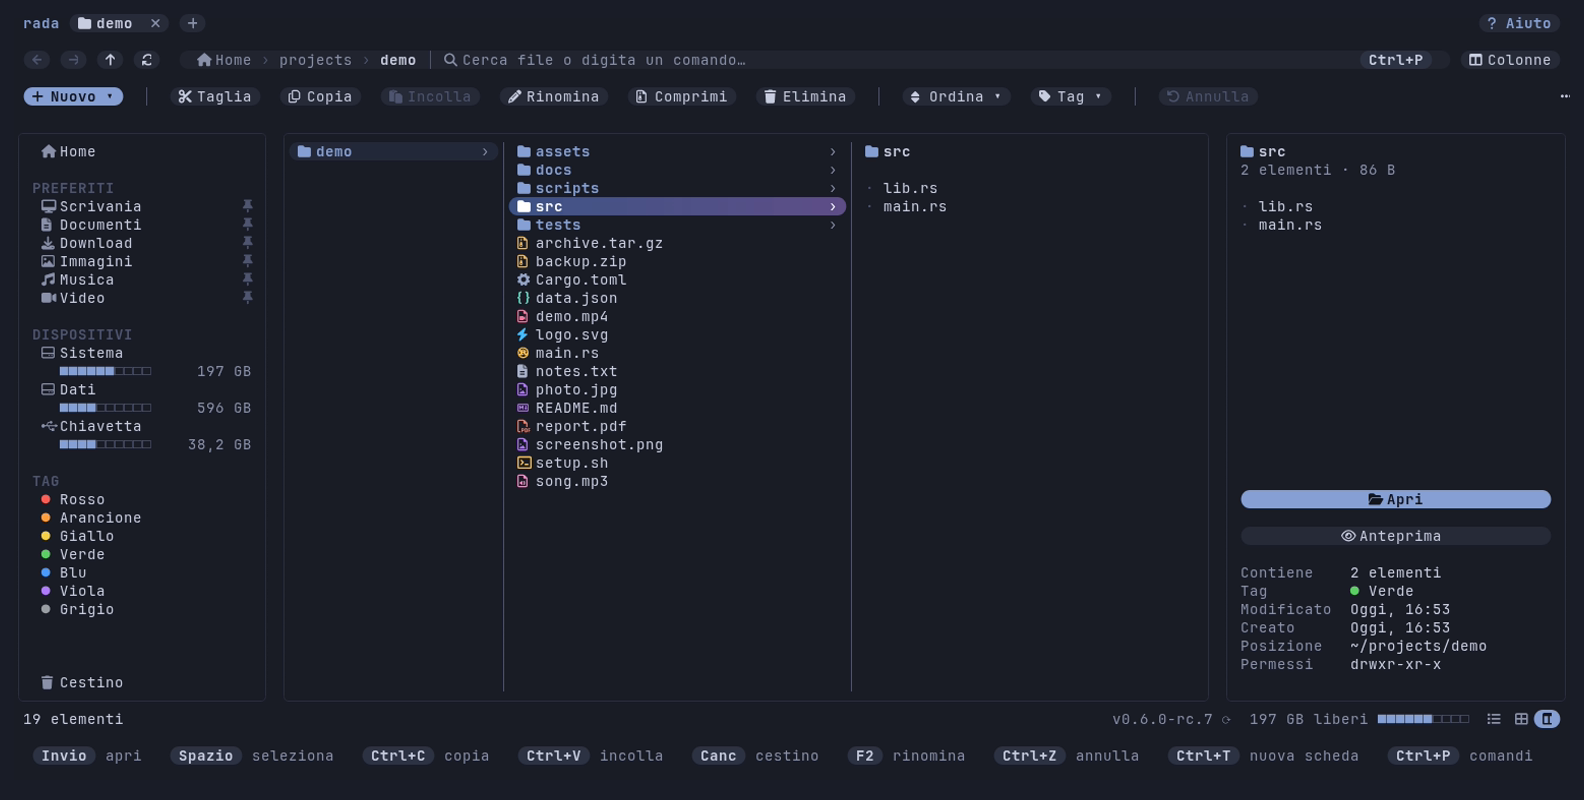
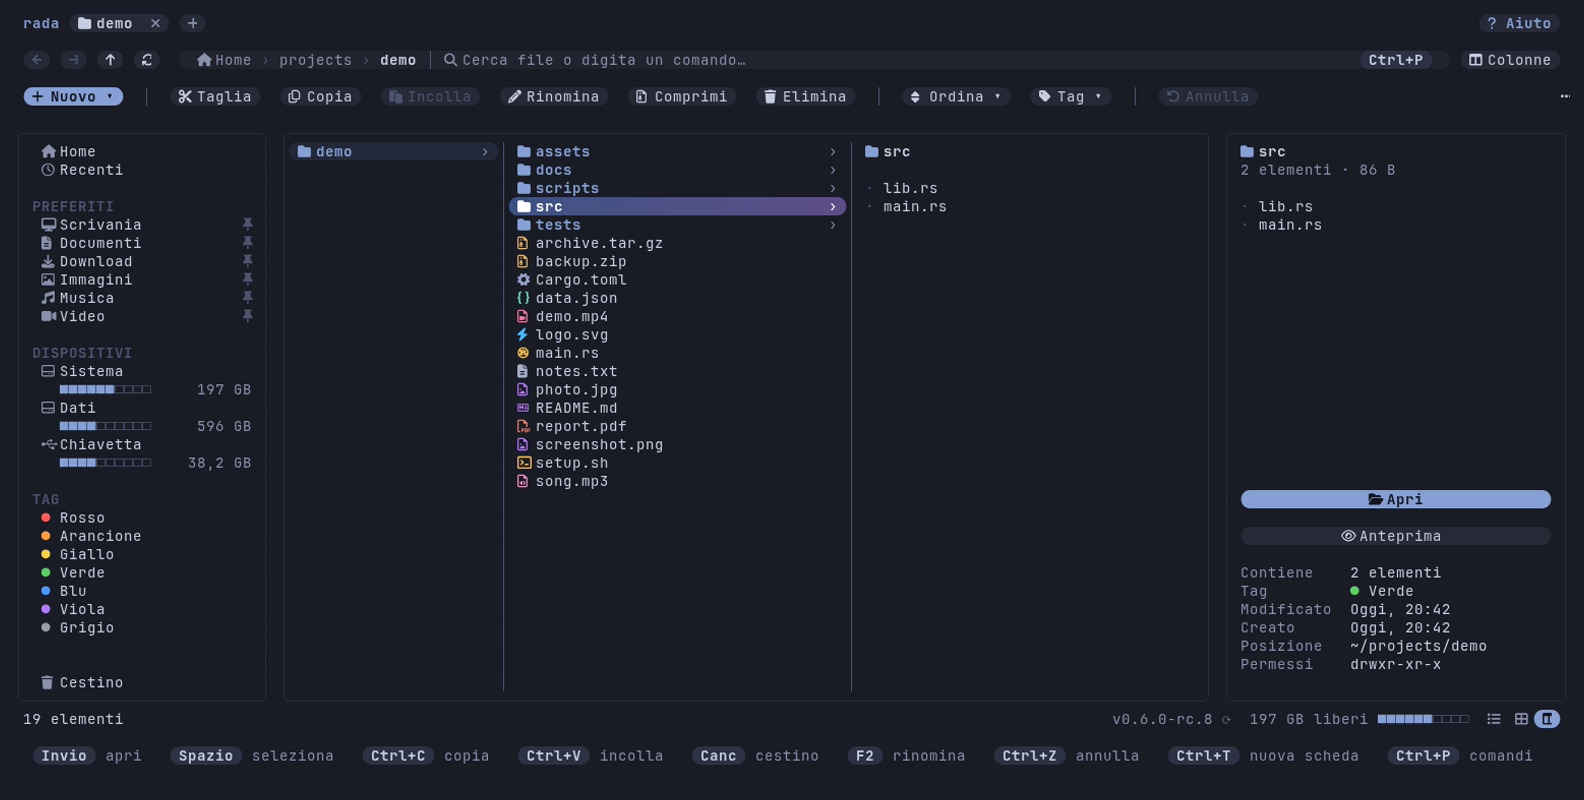
chore: 0.6.0-rc.8 with the changelog, the README and every picture drawn again, Recent included

Changed region(s): [[0.0, 0.1875, 0.0928, 0.8125], [0.1237, 0.4375, 0.1547, 0.5938], [0.8971, 0.75, 0.928, 0.7812]]

diff --git a/crates/tui/src/app.rs b/crates/tui/src/app.rs
@@ -2467,6 +2467,8 @@ impl App {
                 }));
                 self.svc.jobs.load_history();
             }
+            // The list of the files used lately (the demo home has a `recently-used.xbel`).
+            "recenti" => self.open_dir(rada_core::recents::view_path()),
             // A selection and something on the clipboard, to show the bottom bar at work.
             "selection" => {
                 let files: Vec<_> = self

diff --git a/README.md b/README.md
@@ -43,7 +43,7 @@ The names of the folders in the sidebar are the ones the system gives them (Ital
 
 ## Status
 
-Version 0.6.0-rc.7. **Linux is supported.** Windows and macOS are a **pre-release**: the Recycle Bin / Trash, drives and volumes, the standard folders, opening files, and — new in this release — the things people expect of the Finder and Explorer (packages, localized names, ejecting, Quick Look, tags on macOS; localized names and ejecting on Windows) are implemented, and the whole test suite runs on all three systems in CI. The Mac version has had its first real-world try-out; nobody lives in the Windows one yet, so expect rough edges, and the parts of a copy that preserve attributes (ACLs, alternate data streams, resource forks, and the extended attributes other than tags) are not done there: the plan says so before anything is copied.
+Version 0.6.0-rc.8. **Linux is supported.** Windows and macOS are a **pre-release**: the Recycle Bin / Trash, drives and volumes, the standard folders, opening files, and — new in this release — the things people expect of the Finder and Explorer (packages, localized names, ejecting, Quick Look, tags on macOS; localized names and ejecting on Windows) are implemented, and the whole test suite runs on all three systems in CI. The Mac version has had its first real-world try-out; nobody lives in the Windows one yet, so expect rough edges, and the parts of a copy that preserve attributes (ACLs, alternate data streams, resource forks, and the extended attributes other than tags) are not done there: the plan says so before anything is copied.
 
 rada is young and written by one person. The parts that touch your files — planning, copying, the journal, undo — are covered by unit tests, fault-injection tests (full disk, revoked rights, files that change or vanish), tests that kill the process with `SIGKILL` in the middle of an operation, and property tests that generate random trees and check that copy → undo and move → undo give back exactly the starting state, and that compress → extract gives back the same tree. That is a lot more than nothing and much less than years of use. Read [what is guaranteed and what is not](docs/SAFETY.md), keep backups of what matters, and please report anything strange. Review of the operations engine by other people is the help the project needs most ([CONTRIBUTING.md](CONTRIBUTING.md)).
 
@@ -231,11 +231,11 @@ What is guaranteed, and what is not (RAR tested with 7-Zip and a stand-in, no ow
 
 ## Updates
 
-rada looks for a newer version **at most once a day**, in a background worker that never slows the start. It reads GitHub's public list of releases and sends nothing but `User-Agent: rada/<version>`; a network error is silent. A stable version only sees stable releases; a pre-release (`0.6.0-rc.7`) also sees later pre-releases (`channel = "stable"` or `"prerelease"` decides by hand, `check = false` turns the background check off).
+rada looks for a newer version **at most once a day**, in a background worker that never slows the start. It reads GitHub's public list of releases and sends nothing but `User-Agent: rada/<version>`; a network error is silent. A stable version only sees stable releases; a pre-release (`0.6.0-rc.8`) also sees later pre-releases (`channel = "stable"` or `"prerelease"` decides by hand, `check = false` turns the background check off).
 
 When one exists you see it twice: a pill in the accent colour in the tab bar, **↑ Update to X**, and the status bar, **New version X available — press Alt+U to update** (click either). `U` is the history of operations in the vim keys, so the update has `Alt+U`. A window shows the release notes first; `Enter` updates, `Esc` leaves it for later.
 
-The status bar always shows the version that is running, **v0.6.0-rc.7 ⟳**: a click asks the network right away (whatever the day's check said) and answers *rada is up to date* or opens the notes. The **Help ▾** button of the tab bar is a menu with the keys, *Check for updates* and *About rada* (the version, the channel it follows, how it would be updated and where the program is). From the command line:
+The status bar always shows the version that is running, **v0.6.0-rc.8 ⟳**: a click asks the network right away (whatever the day's check said) and answers *rada is up to date* or opens the notes. The **Help ▾** button of the tab bar is a menu with the keys, *Check for updates* and *About rada* (the version, the channel it follows, how it would be updated and where the program is). From the command line:
 
 ```sh
 rada update --check     # only say whether a newer version exists, and what is in it
@@ -258,7 +258,8 @@ What a Mac user expects of a file manager, as far as a terminal allows:
 - **Permissions.** When macOS refuses a folder until you allow it, rada says so in words and opens the right page of System Settings (see [On a Mac](#on-a-mac)); the sidebar marks the folders that are waiting.
 - **Packages.** `.app`, `.bundle`, `.framework`, `.photoslibrary`, `.pages`, `.numbers`, `.key`, `.rtfd` and every folder the system treats as a package (asked of Launch Services, with the Finder's bundle bit as a second opinion — not guessed from the name) behave like files: `Enter` opens them with their program, they sort among the files, and the right-click menu has *Show package contents* (`Alt+↓`) to go inside.
 - **Hidden like in the Finder.** `.DS_Store`, `._*` files, `.localized` and every folder flagged hidden (`~/Library`) stay out of sight until you show hidden files (`.`, or `Cmd+Shift+.`).
-- **Names as the Finder shows them.** The sidebar and the breadcrumbs say *Scrivania*, *Documenti*, *Macintosh HD*, the way your language has them; **Properties** and **Copy path** still give the real path.
+- **Names as the Finder shows them.** With the interface in Italian, `Desktop` is *Scrivania*, `Documents` *Documenti*, `Downloads` *Download*, `Pictures` *Immagini*, `Music` *Musica*, `Movies` *Filmati*, `Public` *Pubblica*, `Applications` *Applicazioni* and `Library` *Libreria*: in the sidebar, the list, the bar of the path and the tabs, from the system's own table of folder names (a short fixed one is the reserve), and only for the folders that carry the Finder's `.localized` marker, as in the Finder. *Macintosh HD* and the other disks come from the system too. In English the names stay as they are. Only what is shown changes: **Properties**, **Copy path**, search, copy, move, rename and the command line use the real name.
+- **Recent** in the sidebar: the files you used lately, from Spotlight (see [Recent](#recent)).
 - **Natural order** everywhere: `file2` before `file10`, capitals mixed with small letters (`natural_sort = false` for letter by letter).
 - **Eject** in the right-click menu of a disk and with `Del` on it in the sidebar: a confirmation, then `diskutil eject`; a busy disk says who is using it ("Finder (process 412)…") and can be tried again. **iCloud Drive** is in the sidebar when it is there.
 - **Quick Look**: *Quick Look* in the item's menu, a button under *Preview* in the details pane, `Alt+Y` (and `Cmd+Y`), and `Q` in the full-screen preview. `Space` still means *select*.
@@ -335,7 +336,23 @@ The name with its icon, the type and size, a big preview (pictures, a PDF's firs
 
 ### Navigation pane
 
-**Home**, then **PINNED** (your standard folders under the names your system really uses — *Scaricati* and *Documenti* on an Italian desktop — and the folders you pin, marked with a pin), **DEVICES** (each disk with a bar of ten segments, `■■■■■■□□□□`, of how full it is, and what is free; `[######----]` in the basic profile), **TAGS** (the colours and your own tags) and the **Trash**. Pin a folder from the context menu or with `B`; `Del` on a pinned folder (with the keyboard focus on it) unpins it. The folders pinned in the config file (`bookmarks`) can only be unpinned there. The place you are in has a quiet background. `Tab` moves the keyboard into the pane (`↑` `↓`, `Enter` opens, `Tab` or `Esc` leaves). `Ctrl+B` shows or hides it. Below 100 columns it becomes a column of icons (hover or move onto one and its name shows in the status bar), below 60 it goes.
+**Home** and, under it, **Recent** (where the system has a list of the files you used lately: see [Recent](#recent)), then **PINNED** (your standard folders under the names your system really uses — *Scaricati* and *Documenti* on an Italian desktop — and the folders you pin, marked with a pin), **DEVICES** (each disk with a bar of ten segments, `■■■■■■□□□□`, of how full it is, and what is free; `[######----]` in the basic profile), **TAGS** (the colours and your own tags) and the **Trash**. Pin a folder from the context menu or with `B`; `Del` on a pinned folder (with the keyboard focus on it) unpins it. The folders pinned in the config file (`bookmarks`) can only be unpinned there. The place you are in has a quiet background. `Tab` moves the keyboard into the pane (`↑` `↓`, `Enter` opens, `Tab` or `Esc` leaves). `Ctrl+B` shows or hides it. Below 100 columns it becomes a column of icons (hover or move onto one and its name shows in the status bar), below 60 it goes.
+
+### Recent
+
+Under **Home**, **Recent** lists the files you used lately, the last used first (at most 200), with a **Last used** column in place of *Modified*. It is a list like the one of a tag: you can open, copy and look at its files, but nothing can be made in it. `Enter` opens a file; **Show in folder** (`Alt+F`, or in the menu of the right button) goes to its folder with the cursor on it. Where the list comes from depends on the system, and when there is none the entry is not shown at all:
+
+| System | Source |
+|---|---|
+| macOS | Spotlight (`mdfind`): what was used in the last 30 days under your home folder, with the date of its last use |
+| Linux | `recently-used.xbel` in `~/.local/share` (the file the desktop's programs write), only files that still exist |
+| Windows | the shortcuts of your `Recent` folder, read for the file each one points at |
+
+Hidden folders and the Mac's `Library` are left out.
+
+![Recent, dark](docs/screenshots/recenti.png)
+
+![Recent on the light Carta theme](docs/screenshots/recenti-carta.png)
 
 ### Status bar and hints
 
@@ -367,9 +384,11 @@ Three looks, each with a dark and a light variant:
 | `tokyo-night` | `tokyo-night-dark` | `tokyo-night-day` |
 | (only light) | | `nebbia-light` |
 
-`rada-light` is **Carta**, warm parchment (`#ecdfc6`) with brown text instead of black on white, which is easier on the eyes; `rada` is a night blue (`#1b1d27`). `nebbia-light` ("mist") is the paper idea with a cool grey-blue paper. These three paint their own background; on a 16-colour terminal the terminal's background is kept.
+`rada-light` is **Carta**, soft parchment (`#ebe4d5`) with brown text instead of black on white, which is easier on the eyes; `rada` is a night blue (`#1b1d27`). `nebbia-light` ("mist") is the paper idea with a cool grey-blue paper. These three paint their own background; on a 16-colour terminal the terminal's background is kept.
 
 The whole interface has **one background**: the tab bar, the bar of the path, the command bar, the sidebar, the list, the details, the menus, the windows, the status bar and the key hints are all the same colour. Panels are told apart by thin rounded lines; fields, pills and key caps are a step darker (lighter, in the dark theme) than the background. The popups follow the same rule: no shadow, a border in the colour of what lies behind it, and a window is one tone from its line to its inside.
+
+**A transparent terminal.** The default dark theme paints its night blue, so it looks the same everywhere. If you would rather see your own terminal's background (a translucent window, a wallpaper), set `transparent_background = true` in the configuration: the default dark theme then leaves the background alone, as `catppuccin` and `tokyo-night` already do. It is off by default and only the default dark theme is affected; the light themes keep their paper.
 
 ![Catppuccin](docs/screenshots/tema-catppuccin.png)
 ![Tokyo Night](docs/screenshots/tema-tokyo-night.png)
@@ -458,7 +477,7 @@ Both schemes are active together by default. `keymap = "vim"` or `"classic"` kee
 | hex dump of a binary · scroll preview | `H` · `J` `K` | |
 | pin this folder (or the item in the navigation pane) · home | `B` · `~` | |
 | move between list and sidebar · show / hide the sidebar | `Tab` · `Ctrl+B` (both schemes) | |
-| update rada · Quick Look (macOS) · show package contents (macOS) | `Alt+U` · `Alt+Y` · `Alt+↓` (both schemes) | |
+| update rada · Quick Look (macOS) · show package contents (macOS) · show in folder (a list of tagged or recent items) | `Alt+U` · `Alt+Y` · `Alt+↓` · `Alt+F` (both schemes) | |
 | help · quit | `?` · `q` | `F1` · `Ctrl+Q` |
 
 **`Ctrl+C` copies and never quits**: the terminal is in raw mode, so it arrives as an ordinary key, and a stray `SIGINT` is ignored. Quit with `q` or `Ctrl+Q`; `SIGTERM` and closing the terminal end rada in an orderly way (the running operation is cancelled, the terminal is restored).

diff --git a/CHANGELOG.md b/CHANGELOG.md
@@ -5,6 +5,19 @@ The format follows [Keep a Changelog](https://keepachangelog.com/en/1.1.0/) and 
 
 ## [Unreleased]
 
+## [0.6.0-rc.8] - 2026-10-15
+
+Carta on a less warm paper, the names of the Finder on macOS, a "Recent" entry in the sidebar, and an option to leave the terminal's background alone. Still a **pre-release**.
+
+### Added
+- **Recent** in the sidebar, right under Home: a read-only list of the files used lately, the last used first (at most 200), with a *Last used* column instead of *Modified*. Enter opens the file; **Show in folder** (`Alt+F`, and the menu of the right button, also in the list of a tag) opens its folder with the cursor on it. Where the list comes from: macOS, Spotlight (`mdfind`, the last-used date of the last 30 days, asked on a worker with a timeout); Linux, `recently-used.xbel` in the data folder, only files that still exist; Windows, the user's Recent folder, whose shortcuts (`.lnk`) are read for the file they point at (the format is read directly, without the shell). If the source is missing or fails, the entry is not there and nothing is said. Hidden folders and the Mac's `Library` are left out.
+- **`transparent_background = true`** in the configuration: the default dark theme leaves the terminal's own background instead of painting its night blue, as `catppuccin` and `tokyo-night` do. Off by default; the other themes ignore it.
+- A demo scene `recenti` and the tapes `recenti` and `recenti-carta`; the demo home has a `recently-used.xbel`.
+
+### Changed
+- **Carta is less warm**: the background is `#ebe4d5` (it was `#ecdfc6`), fields and buttons `#e1d9c8`, keys `#d9d0bc`, lines `#cbbfa6`, text `#3a3229` (dim text `#5d5446`), the selected row `#ddd6c7`, taken from the reference picture; the contrast tests still pass (the text was darkened, not the background lightened). The whole interface is still one background.
+- **macOS: the folders of the Finder have the Finder's names, in the language of the interface.** With the interface in Italian, `Desktop` is shown as *Scrivania*, `Documents` as *Documenti*, `Downloads` as *Download*, `Pictures` as *Immagini*, `Music` as *Musica*, `Movies` as *Filmati*, `Public` as *Pubblica*, `Applications` as *Applicazioni* and `Library` as *Libreria*, in the sidebar, the list, the bar of the path and the tabs. The names come from the system's own table (`SystemFolderLocalizations/<lang>.lproj/SystemFolderLocalizations.strings`, binary, XML or text), with a short fixed table for Italian as a reserve; only folders in the home folder (or `/Applications` and `/Library`) that carry the `.localized` marker are renamed, as in the Finder. Only the shown name changes: the path, the search, copy, move, rename and the command line use the real name (the filter finds a folder by either). In English the names stay as they are, whatever the Finder's own language is. Linux and Windows are unchanged (on Windows the sidebar and the bar of the path already show Explorer's names; the tab keeps the name on disk for now).
+
 ## [0.6.0-rc.7] - 2026-10-14
 
 A correction to how popups are drawn, seen on a real terminal (half a cell of the popup's colour stuck out of the rounded line), and with it a new look for the colours: one background for the whole interface. Icons, layout and texts are as they were. Still a **pre-release**.

diff --git a/docs/tapes/README.md b/docs/tapes/README.md
@@ -11,7 +11,7 @@ scripts/docs-media principale # the tapes whose name starts with it
 
 The terminal is 170×42 cells in JetBrainsMono Nerd Font. Each tape starts from
 `ambiente.tape` (the terminal and the environment: language, a home of its own, no network)
-`ambiente-carta.tape` (the same on the light "Carta" theme) or `ambiente-catppuccin.tape` and ends in a PNG of
+`ambiente-carta.tape` (the same on the light "Carta" theme; `recenti` and `recenti-carta` draw the Recent list) or `ambiente-catppuccin.tape` and ends in a PNG of
 `docs/screenshots/` or a GIF of `docs/media/`. VHS, `ttyd`, `ffmpeg`, python3 with Pillow and
 a JetBrainsMono Nerd Font have to be installed; nothing needs `sudo`.
 
